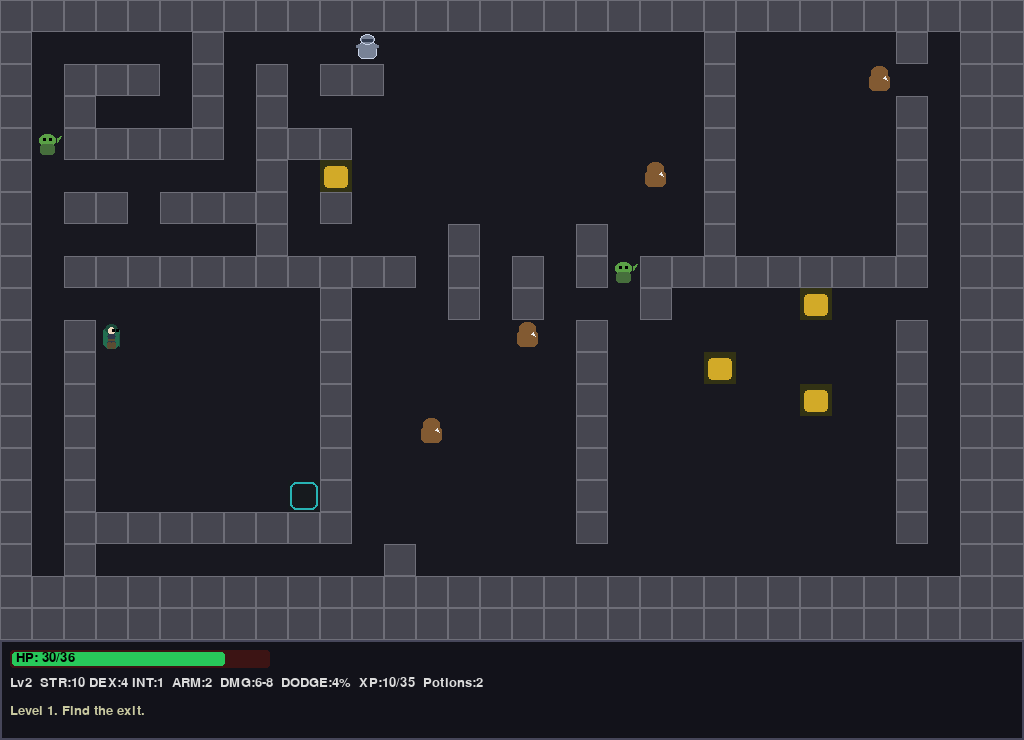
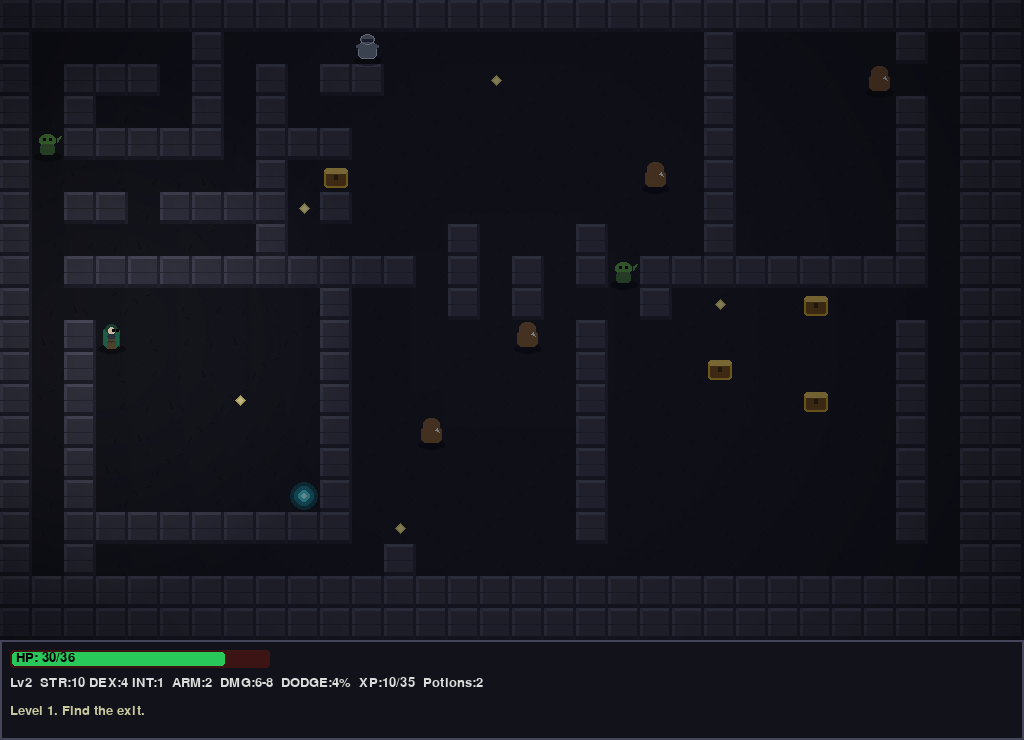
Add atmospheric lighting and textured tiles
- New lighting.py: smooth radial torchlight around the hero (tile-resolution
  alpha map smoothscaled to pixels) plus a vignette, replacing the blocky
  per-tile fog squares. Bright at the hero, dim at the FOV edge, darker for
  remembered tiles, black for unseen.
- Richer procedural tiles: speckled floor variants, beveled walls with seams, a
  detailed chest, a glowing exit portal, and a loot glint (loot was previously
  invisible on the ground).
- Drop shadows under the hero and monsters.

diff --git a/lemond_pygame/drawing.py b/lemond_pygame/drawing.py
@@ -3,6 +3,7 @@
 from __future__ import annotations
 
 import json
+import random
 
 import pygame as pg
 
@@ -11,35 +12,79 @@ from .respath import resource_path
 
 ENTITY_KEYS = ["hero", "goblin", "orc", "bat", "ogre", "armor", "vampire"]
 
+FLOOR_VARIANTS = 6
 
-def build_tiles() -> dict[str, pg.Surface]:
-    wall = pg.Surface((cfg.TILE, cfg.TILE), pg.SRCALPHA)
-    wall.fill((70, 70, 80))
-    pg.draw.rect(wall, (110, 110, 120), (0, 0, cfg.TILE, cfg.TILE), 1)
 
-    floor = pg.Surface((cfg.TILE, cfg.TILE), pg.SRCALPHA)
-    floor.fill((24, 24, 32))
+def _make_floor(seed: int) -> pg.Surface:
+    """A dark stone floor tile with deterministic speckle so it does not look flat."""
+    t = cfg.TILE
+    surf = pg.Surface((t, t), pg.SRCALPHA)
+    surf.fill((24, 24, 32))
+    rng = random.Random(seed)
+    for _ in range(14):
+        x, y = rng.randrange(t), rng.randrange(t)
+        shade = rng.choice([(18, 18, 26), (30, 30, 40), (21, 21, 30)])
+        surf.set_at((x, y), shade)
+    # a couple of faint cracks
+    for _ in range(2):
+        x0, y0 = rng.randrange(t), rng.randrange(t)
+        x1, y1 = min(t - 1, x0 + rng.randint(-6, 6)), min(t - 1, y0 + rng.randint(-6, 6))
+        pg.draw.line(surf, (16, 16, 24), (x0, y0), (x1, y1), 1)
+    return surf
 
-    chest = pg.Surface((cfg.TILE, cfg.TILE), pg.SRCALPHA)
-    chest.fill((50, 50, 20))
-    pg.draw.rect(chest, (210, 170, 40), (4, 6, cfg.TILE - 8, cfg.TILE - 10), border_radius=4)
 
-    exit_tile = pg.Surface((cfg.TILE, cfg.TILE), pg.SRCALPHA)
-    exit_tile.fill((22, 26, 30))
-    pg.draw.rect(exit_tile, (40, 180, 180), (2, 2, cfg.TILE - 4, cfg.TILE - 4), 2, border_radius=6)
+def _make_wall() -> pg.Surface:
+    """A beveled wall block: lit top/left edges, shadowed bottom/right."""
+    t = cfg.TILE
+    surf = pg.Surface((t, t), pg.SRCALPHA)
+    surf.fill((58, 58, 72))
+    pg.draw.rect(surf, (84, 84, 102), (0, 0, t, 3))  # top highlight
+    pg.draw.rect(surf, (74, 74, 92), (0, 0, 3, t))  # left highlight
+    pg.draw.rect(surf, (34, 34, 46), (0, t - 4, t, 4))  # bottom shadow
+    pg.draw.rect(surf, (40, 40, 52), (t - 3, 0, 3, t))  # right shadow
+    pg.draw.line(surf, (44, 44, 56), (0, t // 2), (t, t // 2), 1)  # mortar seam
+    return surf
 
-    shadow_soft = pg.Surface((cfg.TILE, cfg.TILE), pg.SRCALPHA)
-    shadow_soft.fill((0, 0, 0, 120))
-    shadow_hard = pg.Surface((cfg.TILE, cfg.TILE), pg.SRCALPHA)
-    shadow_hard.fill((0, 0, 0, 200))
 
+def _make_chest() -> pg.Surface:
+    t = cfg.TILE
+    surf = pg.Surface((t, t), pg.SRCALPHA)
+    body = pg.Rect(4, 8, t - 8, t - 12)
+    pg.draw.rect(surf, (120, 80, 24), body, border_radius=3)
+    pg.draw.rect(surf, (210, 170, 40), body, 2, border_radius=3)
+    pg.draw.rect(surf, (235, 200, 90), (4, 8, t - 8, 6), border_radius=3)  # lid
+    pg.draw.rect(surf, (60, 40, 12), (t // 2 - 2, t // 2 - 1, 4, 5))  # lock
+    return surf
+
+
+def _make_exit() -> pg.Surface:
+    t = cfg.TILE
+    surf = pg.Surface((t, t), pg.SRCALPHA)
+    c = t // 2
+    for i, col in enumerate([(20, 70, 80), (30, 120, 140), (70, 210, 220)]):
+        pg.draw.circle(surf, col, (c, c), c - 2 - i * 4)
+    pg.draw.circle(surf, (180, 250, 255), (c, c), 3)
+    return surf
+
+
+def _make_loot() -> pg.Surface:
+    """A small glint marking loot lying on the ground."""
+    t = cfg.TILE
+    surf = pg.Surface((t, t), pg.SRCALPHA)
+    c = t // 2
+    pg.draw.polygon(surf, (220, 200, 110), [(c, c - 5), (c + 5, c), (c, c + 5), (c - 5, c)])
+    pg.draw.polygon(surf, (255, 240, 170), [(c, c - 3), (c + 3, c), (c, c + 3), (c - 3, c)])
+    return surf
+
+
+def build_tiles() -> dict[str, object]:
     return {
-        "wall": wall,
-        "floor": floor,
-        "chest": chest,
-        "exit": exit_tile,
-        "shadow_soft": shadow_soft,
-        "shadow_hard": shadow_hard,
+        "wall": _make_wall(),
+        "floor": _make_floor(0),
+        "floor_variants": [_make_floor(i) for i in range(FLOOR_VARIANTS)],
+        "chest": _make_chest(),
+        "exit": _make_exit(),
+        "loot": _make_loot(),
     }
 
 

diff --git a/lemond_pygame/render.py b/lemond_pygame/render.py
@@ -10,11 +10,28 @@ import math
 
 import pygame as pg
 
-from . import i18n
+from . import i18n, lighting
 from .core import config as cfg
 from .core.combat import dodge_chance
-from .core.dungeon import CHEST, EXIT, WALL, Dungeon
+from .core.dungeon import CHEST, EXIT, LOOT, WALL, Dungeon
 from .core.entities import Hero
+
+_shadow_cache: pg.Surface | None = None
+
+
+def _entity_shadow() -> pg.Surface:
+    global _shadow_cache
+    if _shadow_cache is None:
+        t = cfg.TILE
+        s = pg.Surface((t, t // 3), pg.SRCALPHA)
+        pg.draw.ellipse(s, (0, 0, 0, 90), (2, 0, t - 4, t // 3))
+        _shadow_cache = s
+    return _shadow_cache
+
+
+def _blit_shadow(surface, px, py) -> None:
+    s = _entity_shadow()
+    surface.blit(s, (px, py + cfg.TILE - s.get_height() + 2))
 
 
 class AnimState:
@@ -137,7 +154,7 @@ def draw_msg(screen, text: str) -> None:
 
 
 def draw_map(
-    screen,
+    surface,
     tiles,
     hero_anim,
     monsters_anim,
@@ -149,20 +166,22 @@ def draw_map(
     visible,
     mon_slide,
 ) -> None:
+    floors = tiles["floor_variants"]
+    nfloor = len(floors)
     for y in range(d.h):
         for x in range(d.w):
             r = pg.Rect(x * cfg.TILE, y * cfg.TILE, cfg.TILE, cfg.TILE)
-            screen.blit(tiles["floor"], r)
+            surface.blit(floors[(x * 7 + y * 13) % nfloor], r)
             t = d.grid[y][x]
             if t == WALL:
-                screen.blit(tiles["wall"], r)
+                surface.blit(tiles["wall"], r)
             elif t == CHEST:
-                screen.blit(tiles["chest"], r)
+                surface.blit(tiles["chest"], r)
             elif t == EXIT:
-                screen.blit(tiles["exit"], r)
-            if (x, y) not in visible:
-                screen.blit(tiles["shadow_hard"] if not d.seen[y][x] else tiles["shadow_soft"], r)
-            else:
+                surface.blit(tiles["exit"], r)
+            elif t == LOOT:
+                surface.blit(tiles["loot"], r)
+            if (x, y) in visible:
                 d.seen[y][x] = True
     for (x, y), m in list(monsters.items()):
         if (x, y) in visible:
@@ -171,11 +190,15 @@ def draw_map(
             fx = mon_slide.get(id(m))
             offx = int((fx.ox if fx else 0.0) * cfg.TILE)
             offy = int((fx.oy if fx else 0.0) * cfg.TILE)
-            r = pg.Rect(x * cfg.TILE + offx, y * cfg.TILE + offy, cfg.TILE, cfg.TILE)
+            _blit_shadow(surface, x * cfg.TILE, y * cfg.TILE)
             if frame:
-                screen.blit(frame, r)
-    r = pg.Rect(int(render_px * cfg.TILE), int(render_py * cfg.TILE), cfg.TILE, cfg.TILE)
-    screen.blit(hero_anim.get_frame(), r)
+                surface.blit(frame, (x * cfg.TILE + offx, y * cfg.TILE + offy))
+    hpx, hpy = int(render_px * cfg.TILE), int(render_py * cfg.TILE)
+    _blit_shadow(surface, hpx, hpy)
+    hero_frame = hero_anim.get_frame()
+    if hero_frame:
+        surface.blit(hero_frame, (hpx, hpy))
+    lighting.apply(surface, d, visible, render_px, render_py, cfg.FOV_RADIUS)
 
 
 def _line(screen, font, text, x, y, col=(220, 220, 220)) -> None:

diff --git a/lemond_pygame/lighting.py b/lemond_pygame/lighting.py
@@ -1,0 +1,62 @@
+"""Smooth torch-light fog and a static vignette for the play area.
+
+The fog is computed at tile resolution (one alpha value per tile) and then
+``smoothscale``-d up to pixel resolution, which turns the old blocky per-tile
+shadows into soft gradients for free.
+"""
+
+from __future__ import annotations
+
+import math
+
+import pygame as pg
+
+from .core import config as cfg
+
+_AMBIENT_EDGE = 125  # darkness alpha at the edge of the lit radius
+_SEEN_DARK = 200  # explored but currently out of sight
+_UNSEEN_DARK = 255  # never seen
+_TINT = (6, 8, 16)  # cool dungeon-blue darkness
+
+_vignette_cache: pg.Surface | None = None
+
+
+def _build_fog(d, visible, hero_rx, hero_ry, radius) -> pg.Surface:
+    w, h = d.w, d.h
+    fog = pg.Surface((w, h), pg.SRCALPHA)
+    cx, cy = hero_rx + 0.5, hero_ry + 0.5
+    r, g, b = _TINT
+    for y in range(h):
+        seen_row = d.seen[y]
+        for x in range(w):
+            if (x, y) in visible:
+                dist = math.hypot((x + 0.5) - cx, (y + 0.5) - cy)
+                t = min(1.0, dist / radius)
+                alpha = int(_AMBIENT_EDGE * (t**1.6))
+            elif seen_row[x]:
+                alpha = _SEEN_DARK
+            else:
+                alpha = _UNSEEN_DARK
+            fog.set_at((x, y), (r, g, b, alpha))
+    return fog
+
+
+def _vignette() -> pg.Surface:
+    global _vignette_cache
+    if _vignette_cache is None:
+        sw, sh = 16, 10
+        small = pg.Surface((sw, sh), pg.SRCALPHA)
+        cx, cy = (sw - 1) / 2, (sh - 1) / 2
+        maxd = math.hypot(cx, cy)
+        for y in range(sh):
+            for x in range(sw):
+                dn = math.hypot(x - cx, y - cy) / maxd
+                small.set_at((x, y), (0, 0, 0, int(95 * dn**2.4)))
+        _vignette_cache = pg.transform.smoothscale(small, (cfg.SCREEN_W, cfg.MAP_H * cfg.TILE))
+    return _vignette_cache
+
+
+def apply(surface, d, visible, hero_rx, hero_ry, radius) -> None:
+    fog = _build_fog(d, visible, hero_rx, hero_ry, radius)
+    surface.blit(pg.transform.smoothscale(fog, (d.w * cfg.TILE, d.h * cfg.TILE)), (0, 0))
+    surface.blit(_vignette(), (0, 0))
